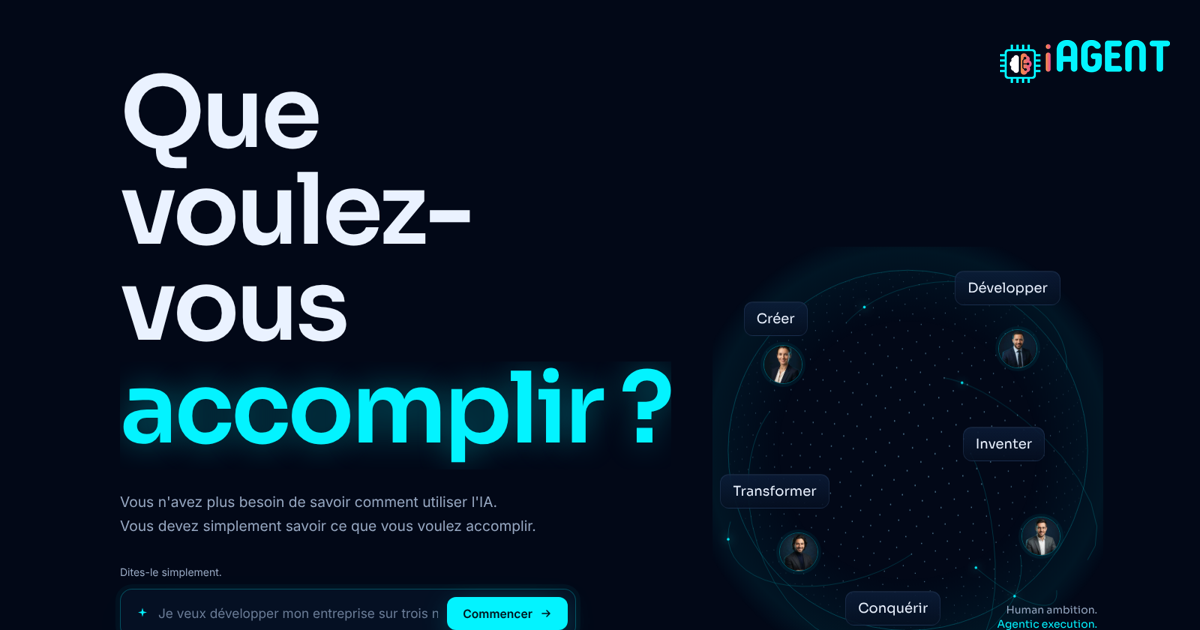
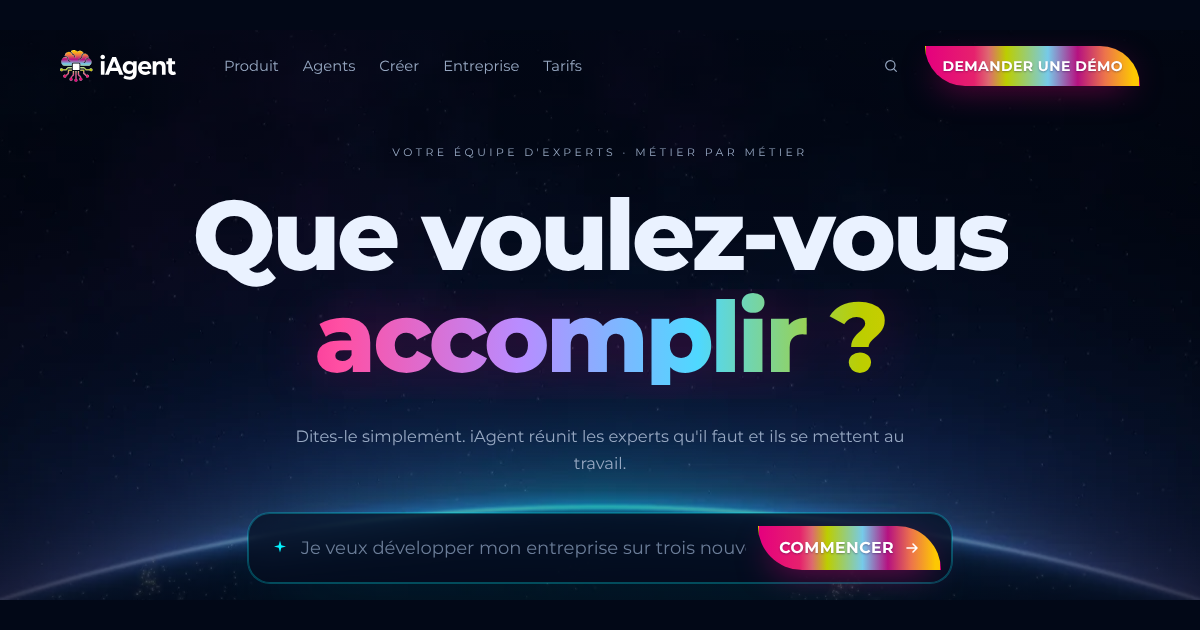
Site : la nouvelle icône dans les onglets, sur le téléphone et au partage
L'onglet montrait encore l'ancienne puce (cerveau sur fond violet, puce
verte). La marque de la charte (/mnt/project-files/charte/logo-iagent-
vertical.svg) est découpée en icône carrée sur fond nuit : favicon.svg,
favicon.ico (16, 32, 48), apple-touch-icon 180, icônes 192 et 512 avec un
manifeste. Toutes les pages les déclarent (accueil, catalogue, pages de
l'offre, pages métier générées). L'ancien puce-cerveau.png porte la
nouvelle image pour les liens déjà en cache, comme l'icône de la scène
Desktop Commander. L'image de partage, qui montrait l'ancien logo
« iAGENT », est refaite depuis l'accueil actuel.

Claude-Session: https://claude.ai/code/session_01Q1QCakSwDjxNE8gxQCdXYU

diff --git a/frontend/index.html b/frontend/index.html
@@ -6,7 +6,7 @@
   <title>iAgent : que voulez-vous accomplir ? Des collaborateurs IA par métier</title>
   <meta name="description" content="Vous n'avez plus besoin de savoir comment utiliser l'IA. Dites ce que vous voulez accomplir : iAgent réunit les collaborateurs IA de votre métier, qui connaissent vos logiciels et travaillent chez vous ou dans le cloud." />
   <link rel="canonical" href="https://iagent.agency/" />
-  <link rel="icon" type="image/png" href="/puce-cerveau.png" />
+  <link rel="icon" href="/favicon.ico" sizes="48x48" /><link rel="icon" type="image/svg+xml" href="/favicon.svg" /><link rel="apple-touch-icon" href="/apple-touch-icon.png" /><link rel="manifest" href="/site.webmanifest" />
   <meta name="theme-color" content="#020817" />
   <meta property="og:type" content="website" />
   <meta property="og:site_name" content="iAgent" />

diff --git a/frontend/why-rent.html b/frontend/why-rent.html
@@ -6,7 +6,7 @@
   <title>Pourquoi louer ses agents : le coût réel de reconstruction</title>
   <meta name="description" content="Décrire chaque métier, connaître les logiciels, faire tourner les modèles, construire l'application, tenir la machine : ce qu'il faudrait reconstruire soi-même." />
   <link rel="canonical" href="https://iagent.agency/why-rent" />
-  <link rel="icon" type="image/png" href="/puce-cerveau.png" />
+  <link rel="icon" href="/favicon.ico" sizes="48x48" /><link rel="icon" type="image/svg+xml" href="/favicon.svg" /><link rel="apple-touch-icon" href="/apple-touch-icon.png" /><link rel="manifest" href="/site.webmanifest" />
   <meta name="theme-color" content="#020817" />
   <meta property="og:type" content="website" />
   <meta property="og:site_name" content="iAgent" />

diff --git a/frontend/standard-telephonique.html b/frontend/standard-telephonique.html
@@ -6,7 +6,7 @@
   <title>Standard téléphonique IA : un accueil qui comprend ce qu’on lui dit</title>
   <meta name="description" content="Un numéro, un accueil en conversation, une extension par agent et la main à l'humain : le standard iAgent arrive bientôt." />
   <link rel="canonical" href="https://iagent.agency/standard-telephonique" />
-  <link rel="icon" type="image/png" href="/puce-cerveau.png" />
+  <link rel="icon" href="/favicon.ico" sizes="48x48" /><link rel="icon" type="image/svg+xml" href="/favicon.svg" /><link rel="apple-touch-icon" href="/apple-touch-icon.png" /><link rel="manifest" href="/site.webmanifest" />
   <meta name="theme-color" content="#020817" />
   <meta property="og:type" content="website" />
   <meta property="og:site_name" content="iAgent" />

diff --git a/frontend/workforce.html b/frontend/workforce.html
@@ -6,7 +6,7 @@
   <title>iAgent Workforce : un collaborateur numérique managé</title>
   <meta name="description" content="Des agents par métier, une Box installée chez vous, Desktop Commander pour les diriger, la consommation d'IA à part : l'offre iAgent en une page." />
   <link rel="canonical" href="https://iagent.agency/workforce" />
-  <link rel="icon" type="image/png" href="/puce-cerveau.png" />
+  <link rel="icon" href="/favicon.ico" sizes="48x48" /><link rel="icon" type="image/svg+xml" href="/favicon.svg" /><link rel="apple-touch-icon" href="/apple-touch-icon.png" /><link rel="manifest" href="/site.webmanifest" />
   <meta name="theme-color" content="#020817" />
   <meta property="og:type" content="website" />
   <meta property="og:site_name" content="iAgent" />

diff --git a/frontend/opportunities.html b/frontend/opportunities.html
@@ -6,7 +6,7 @@
   <title>Opportunités : des projets repérés sur le marché</title>
   <meta name="description" content="Des projets repérés, avec leurs scénarios, leurs coûts, leurs risques et l'équipe d'agents qu'il faudrait. Aucune promesse de rentabilité." />
   <link rel="canonical" href="https://iagent.agency/opportunities" />
-  <link rel="icon" type="image/png" href="/puce-cerveau.png" />
+  <link rel="icon" href="/favicon.ico" sizes="48x48" /><link rel="icon" type="image/svg+xml" href="/favicon.svg" /><link rel="apple-touch-icon" href="/apple-touch-icon.png" /><link rel="manifest" href="/site.webmanifest" />
   <meta name="theme-color" content="#020817" />
   <meta property="og:type" content="website" />
   <meta property="og:site_name" content="iAgent" />

diff --git a/frontend/security.html b/frontend/security.html
@@ -6,7 +6,7 @@
   <title>Sécurité et contrôle : autonome ne signifie pas incontrôlé</title>
   <meta name="description" content="Ce que chaque agent peut ouvrir, ce qui attend votre accord, ce qui est consigné : comment iAgent garde le travail sous votre contrôle." />
   <link rel="canonical" href="https://iagent.agency/security" />
-  <link rel="icon" type="image/png" href="/puce-cerveau.png" />
+  <link rel="icon" href="/favicon.ico" sizes="48x48" /><link rel="icon" type="image/svg+xml" href="/favicon.svg" /><link rel="apple-touch-icon" href="/apple-touch-icon.png" /><link rel="manifest" href="/site.webmanifest" />
   <meta name="theme-color" content="#020817" />
   <meta property="og:type" content="website" />
   <meta property="og:site_name" content="iAgent" />

diff --git a/frontend/box.html b/frontend/box.html
@@ -6,7 +6,7 @@
   <title>iAgent Box : votre équipe IA, installée dans votre entreprise</title>
   <meta name="description" content="Un poste tactile préparé pour vos agents, avec voix, micro et Desktop Commander, mis à disposition sous abonnement et maintenu par iAgent." />
   <link rel="canonical" href="https://iagent.agency/box" />
-  <link rel="icon" type="image/png" href="/puce-cerveau.png" />
+  <link rel="icon" href="/favicon.ico" sizes="48x48" /><link rel="icon" type="image/svg+xml" href="/favicon.svg" /><link rel="apple-touch-icon" href="/apple-touch-icon.png" /><link rel="manifest" href="/site.webmanifest" />
   <meta name="theme-color" content="#020817" />
   <meta property="og:type" content="website" />
   <meta property="og:site_name" content="iAgent" />

diff --git a/frontend/skills.html b/frontend/skills.html
@@ -6,7 +6,7 @@
   <title>Des agents qui évoluent : maintenance et Skill Packs</title>
   <meta name="description" content="Vous ne louez pas un logiciel figé : chaque agent est maintenu, mis à jour et enrichi de compétences métier, de procédures et de connecteurs." />
   <link rel="canonical" href="https://iagent.agency/skills" />
-  <link rel="icon" type="image/png" href="/puce-cerveau.png" />
+  <link rel="icon" href="/favicon.ico" sizes="48x48" /><link rel="icon" type="image/svg+xml" href="/favicon.svg" /><link rel="apple-touch-icon" href="/apple-touch-icon.png" /><link rel="manifest" href="/site.webmanifest" />
   <meta name="theme-color" content="#020817" />
   <meta property="og:type" content="website" />
   <meta property="og:site_name" content="iAgent" />

diff --git a/frontend/iagent-inside-iagent.html b/frontend/iagent-inside-iagent.html
@@ -6,7 +6,7 @@
   <title>iAgent inside iAgent : notre entreprise tourne avec nos agents</title>
   <meta name="description" content="La première entreprise que nous faisons fonctionner avec iAgent est la nôtre : l'organisation de notre équipe d'agents." />
   <link rel="canonical" href="https://iagent.agency/iagent-inside-iagent" />
-  <link rel="icon" type="image/png" href="/puce-cerveau.png" />
+  <link rel="icon" href="/favicon.ico" sizes="48x48" /><link rel="icon" type="image/svg+xml" href="/favicon.svg" /><link rel="apple-touch-icon" href="/apple-touch-icon.png" /><link rel="manifest" href="/site.webmanifest" />
   <meta name="theme-color" content="#020817" />
   <meta property="og:type" content="website" />
   <meta property="og:site_name" content="iAgent" />

diff --git a/frontend/local-ai.html b/frontend/local-ai.html
@@ -6,7 +6,7 @@
   <title>IA locale et hybride pour les entreprises</title>
   <meta name="description" content="Faire tourner vos agents chez vous, dans le cloud ou entre les deux : confidentialité, contrôle et coût à grande échelle. Infrastructure sur devis." />
   <link rel="canonical" href="https://iagent.agency/local-ai" />
-  <link rel="icon" type="image/png" href="/puce-cerveau.png" />
+  <link rel="icon" href="/favicon.ico" sizes="48x48" /><link rel="icon" type="image/svg+xml" href="/favicon.svg" /><link rel="apple-touch-icon" href="/apple-touch-icon.png" /><link rel="manifest" href="/site.webmanifest" />
   <meta name="theme-color" content="#020817" />
   <meta property="og:type" content="website" />
   <meta property="og:site_name" content="iAgent" />

diff --git a/frontend/support-center.html b/frontend/support-center.html
@@ -6,7 +6,7 @@
   <title>iAgent Support Center : votre SAV au téléphone</title>
   <meta name="description" content="Plusieurs appels à la fois, des files, un ticket par appel et l'escalade vers un humain : le centre de support iAgent arrive bientôt." />
   <link rel="canonical" href="https://iagent.agency/support-center" />
-  <link rel="icon" type="image/png" href="/puce-cerveau.png" />
+  <link rel="icon" href="/favicon.ico" sizes="48x48" /><link rel="icon" type="image/svg+xml" href="/favicon.svg" /><link rel="apple-touch-icon" href="/apple-touch-icon.png" /><link rel="manifest" href="/site.webmanifest" />
   <meta name="theme-color" content="#020817" />
   <meta property="og:type" content="website" />
   <meta property="og:site_name" content="iAgent" />

diff --git a/frontend/how-it-works.html b/frontend/how-it-works.html
@@ -6,7 +6,7 @@
   <title>Comment ça marche : du recrutement au travail</title>
   <meta name="description" content="Décrivez votre besoin, choisissez vos agents, faites passer l'entretien d'embauche : iAgent prépare la Box et met l'équipe au travail." />
   <link rel="canonical" href="https://iagent.agency/how-it-works" />
-  <link rel="icon" type="image/png" href="/puce-cerveau.png" />
+  <link rel="icon" href="/favicon.ico" sizes="48x48" /><link rel="icon" type="image/svg+xml" href="/favicon.svg" /><link rel="apple-touch-icon" href="/apple-touch-icon.png" /><link rel="manifest" href="/site.webmanifest" />
   <meta name="theme-color" content="#020817" />
   <meta property="og:type" content="website" />
   <meta property="og:site_name" content="iAgent" />
